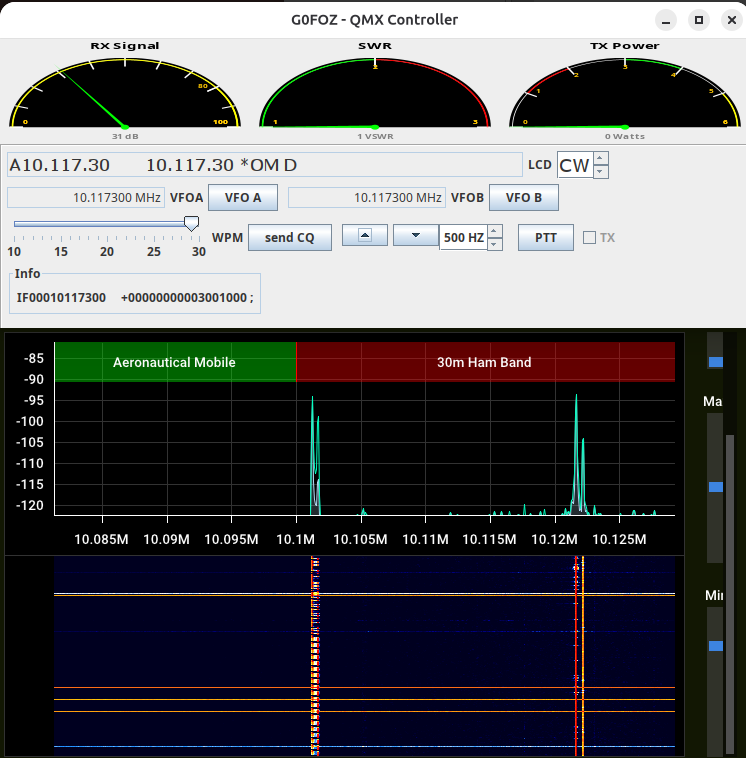
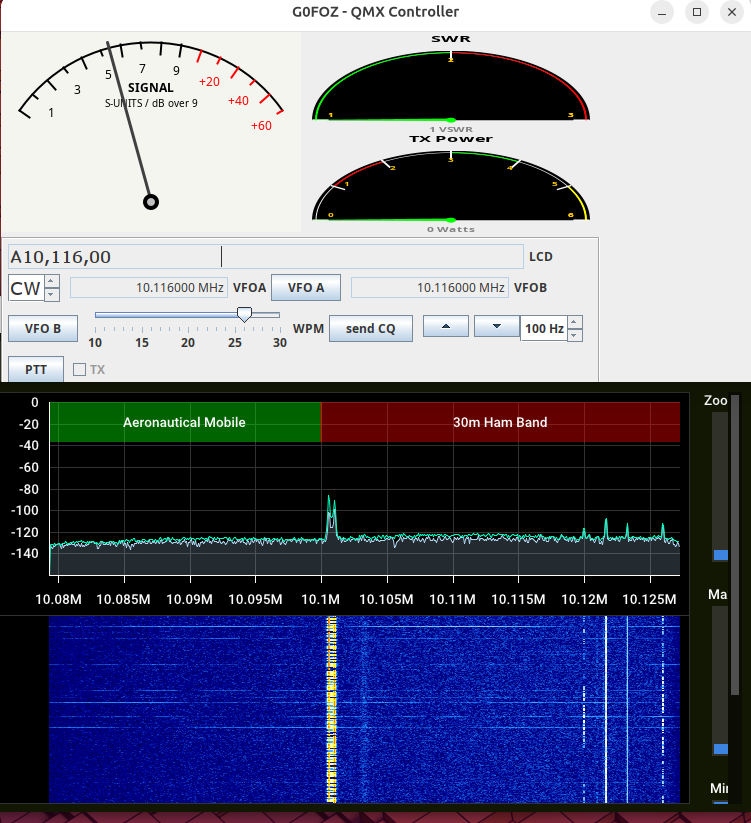
Changed s-meter for better looking analogue Added an enum class for all new QMX CAT codes

diff --git a/java/GUI.java b/java/GUI.java
@@ -98,7 +98,7 @@ public class GUI {
 	private int pwrZCount = 0;
 	private int freqA = 0;
 	private int freqB = 0;
-	private long offset = 12000;
+	private long offset = 12700;
 	private String responseString = null;
 	String sCommand = "";
 	private int tsw = 0; // variable for read swr
